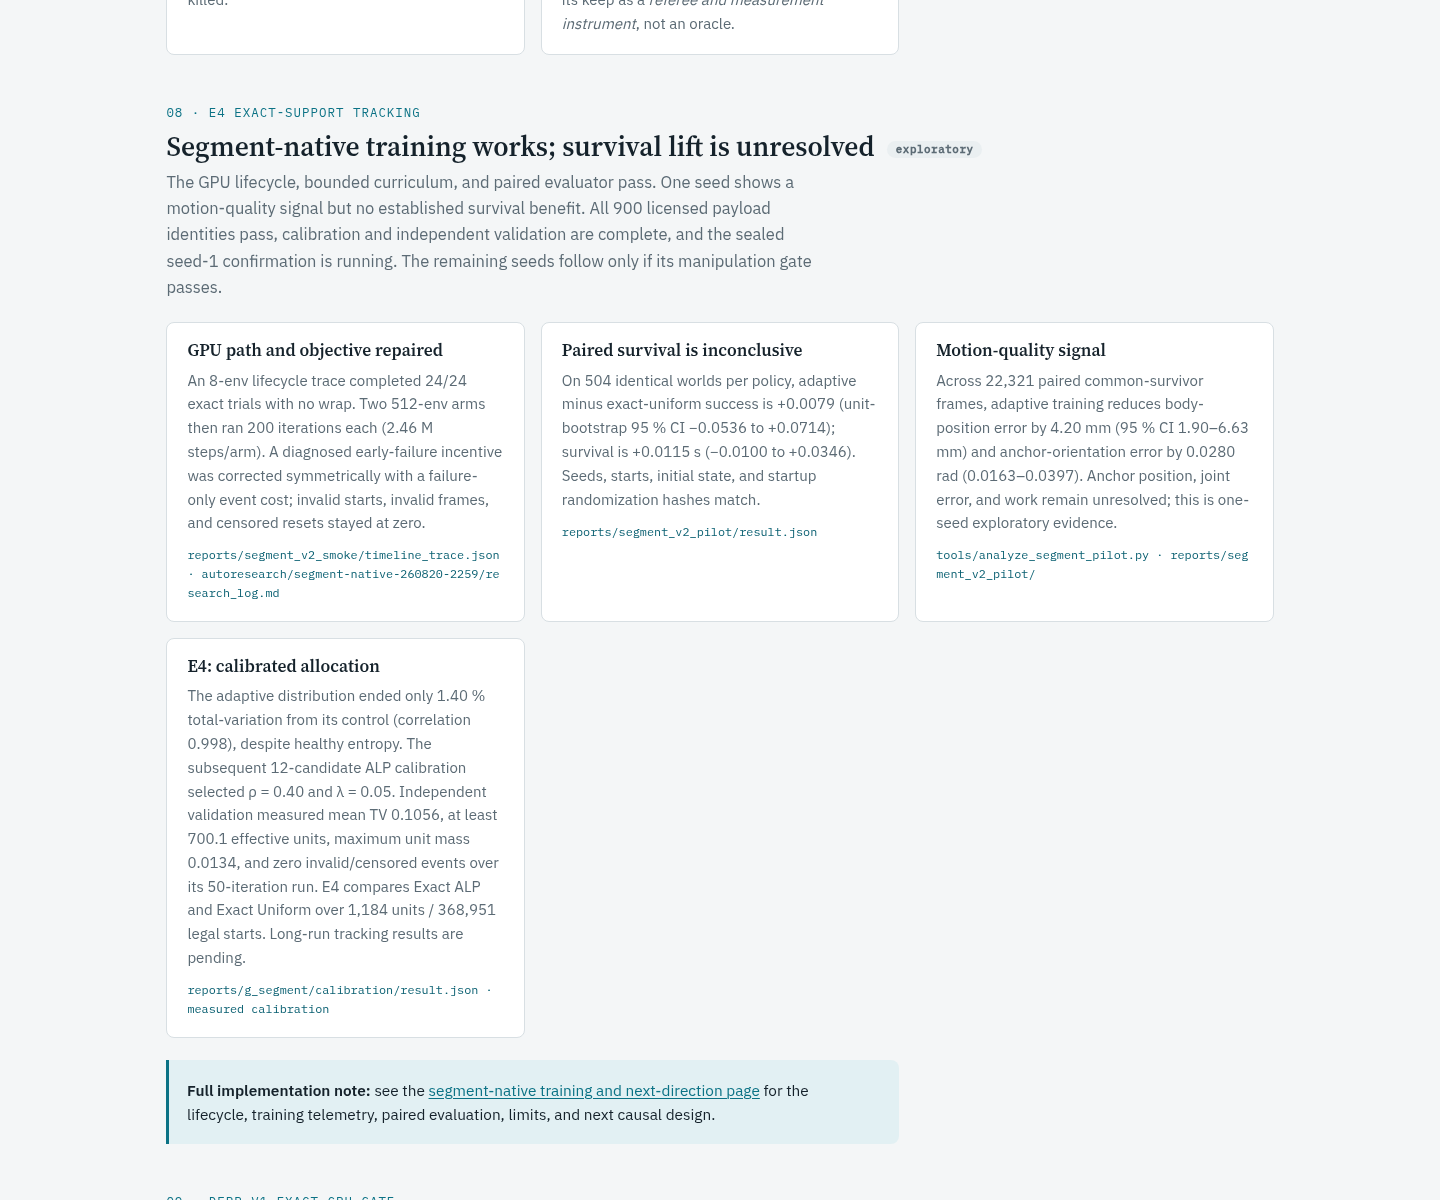
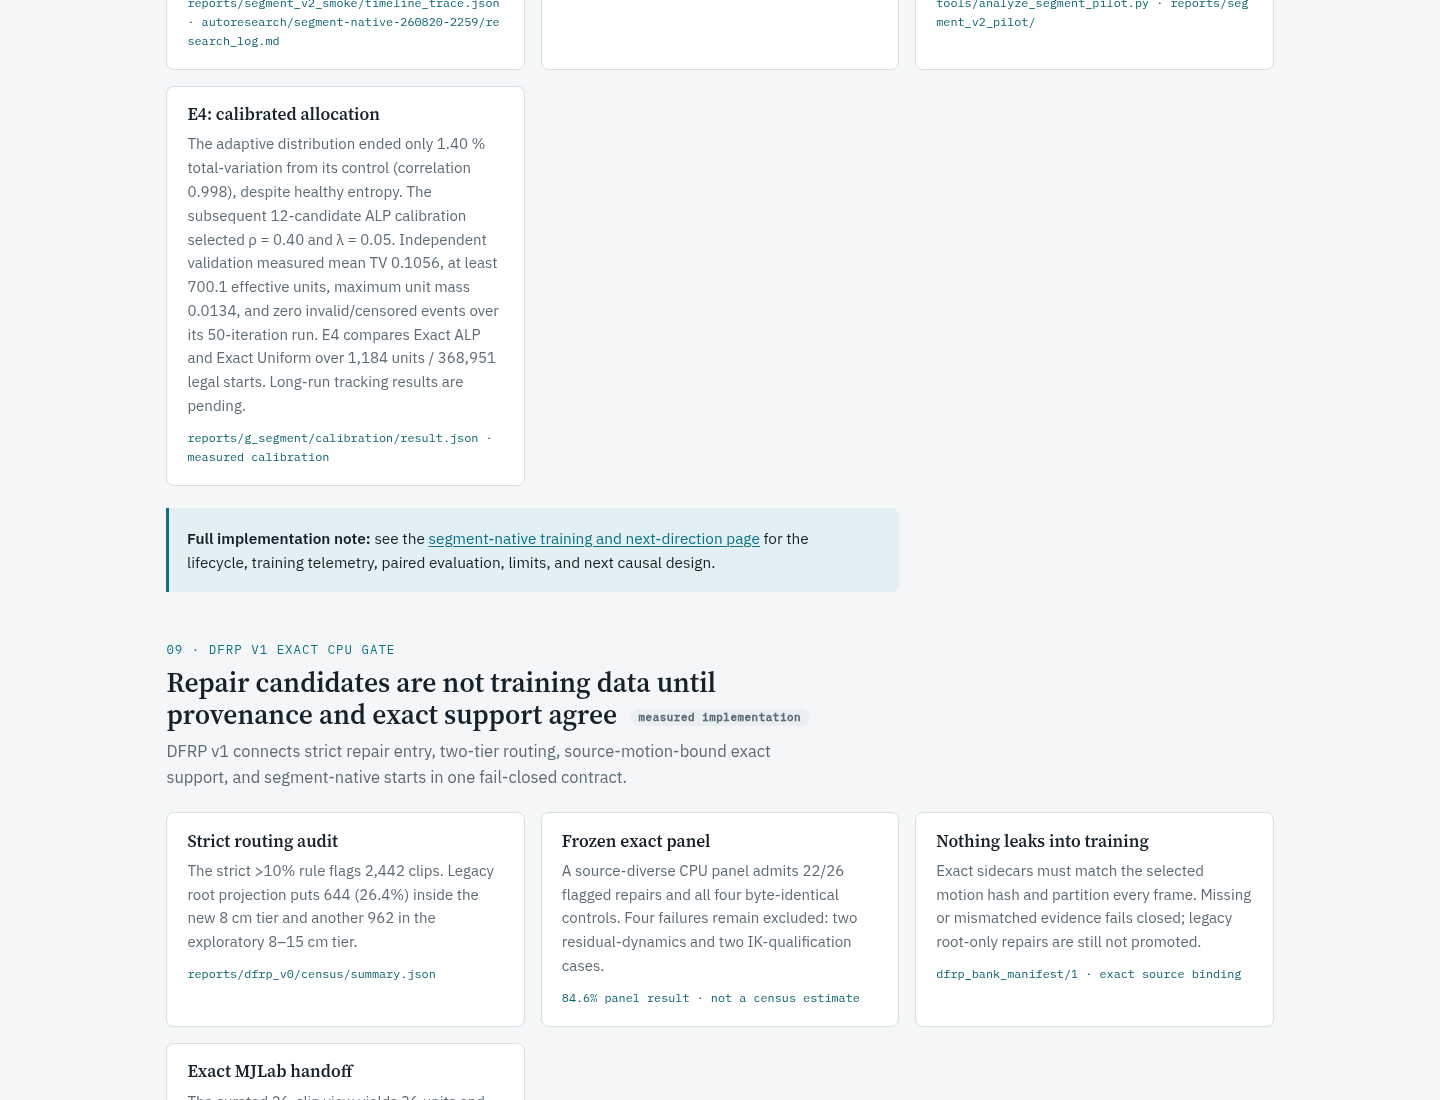
Report seed-1 progress and automate complete-panel DFRP figures

diff --git a/docs/index.html b/docs/index.html
@@ -446,10 +446,11 @@ footer .links{display:flex;flex-wrap:wrap;gap:1.4rem;margin-top:.6rem}
     <div class="card"><h3>E4 confirmation <span class="pill sealed">sealed · running</span></h3>
       <p>Exact ALP and Exact Uniform share the same feasible support, 512 environments, and 4,000 iterations.
       The three-seed protocol checks sampler manipulation before measuring TrackingScore, survival, and common-survivor fidelity.
-      Seed 1 is running; its frozen gate controls continuation to seeds 2–3.</p>
+      Exact Uniform seed 1 has completed training; Exact ALP seed 1 is running.
+      Their frozen sampler gate controls continuation to seeds 2–3.</p>
       <span class="ev">plan/G_SEGMENT_FREEZE.sha256 · plan/E4_CONTINUATION_2026-09-05.md</span></div>
   </div>
-  <div class="callout"><p><strong>E4 research status, 5 September 2026:</strong> all 900 reference identities pass, confirmation preflight has zero blockers, and the 41-file seal is committed before training. Independent calibration passes; contact timing remains exploratory. The next DFRP comparison will evaluate the fixed Exact Uniform checkpoint on raw and repaired references, including all four unchanged controls. The execution plan and claim boundaries are recorded in
+  <div class="callout"><p><strong>E4 research status, 5 September 2026:</strong> all 900 reference identities pass, confirmation preflight has zero blockers, and the 41-file seal is committed before training. Independent calibration passes; contact timing remains exploratory. A separate DFRP comparison is queued: 22 qualified repairs plus four unchanged controls, 656 paired conditions per reference arm, and a fixed Exact Uniform checkpoint. Historical payload identity checks must pass before evaluation; no repaired-policy tracking gain is claimed yet. The execution plan and claim boundaries are recorded in
     <a href="https://github.com/linjiw/climb-feasibility-first/blob/master/plan/E4_CONTINUATION_2026-09-05.md">the E4 and DFRP continuation record</a>; manuscript milestones remain in
     <a href="https://github.com/linjiw/climb-feasibility-first/blob/master/plan/PAPER_COMPLETION_2026-09-04.md">the paper-completion checkpoint</a>.</p></div>
 </section>

diff --git a/paper/figures/f_dfrp_tracking.py b/paper/figures/f_dfrp_tracking.py
@@ -1,0 +1,120 @@
+#!/usr/bin/env python3
+"""Render every DFRP validation clip, without selecting successful examples."""
+
+from __future__ import annotations
+
+import argparse
+import csv
+import hashlib
+import json
+from pathlib import Path
+
+import matplotlib
+
+matplotlib.use("Agg")
+import matplotlib.pyplot as plt
+import numpy as np
+
+plt.rcParams.update({"pdf.fonttype": 42, "ps.fonttype": 42})
+
+
+def render(result: dict, design: dict, out: Path, *, synthetic: bool = False) -> None:
+    """Plot paired window-completion rates and common-reference TrackingScore."""
+    records = sorted(design["clips"], key=lambda row: row["clip"])
+    names = [row["clip"] for row in records]
+    if set(names) != set(result["per_clip"]):
+        raise ValueError("figure must contain every design clip exactly once")
+    if len(names) != len(set(names)):
+        raise ValueError("duplicate design clip")
+    if not synthetic and result.get("status") != "measured":
+        raise ValueError("figure requires measured validated results")
+    fig, axes = plt.subplots(1, 2, figsize=(9.6, max(4.0, len(names) * 0.27 + 2.0)),
+                             sharey=True, layout="constrained")
+    y = np.arange(len(names))
+    for axis, key, title in zip(
+        axes, ("success", "tracking_score"),
+        ("Window completion rate", "Common-raw-reference TrackingScore"),
+    ):
+        for i, row in enumerate(records):
+            metrics = result["per_clip"][row["clip"]]["metrics"][key]
+            raw, repaired = metrics["raw"], metrics["repaired"]
+            axis.plot([raw, repaired], [i, i], color="#8c969c", linewidth=1.5)
+            axis.scatter(raw, i, marker="o", s=28, color="#596875",
+                         label="Raw reference" if i == 0 else None, zorder=3)
+            axis.scatter(repaired, i, marker="D", s=28, color="#0b8296",
+                         label="DFRP / unchanged control" if i == 0 else None, zorder=3)
+        axis.set_xlim(-0.035, 1.035)
+        axis.set_title(title, fontsize=11)
+        axis.grid(axis="x", alpha=0.2)
+        axis.set_axisbelow(True)
+        axis.spines[["top", "right"]].set_visible(False)
+    axes[0].set_yticks(y, [
+        f"{i + 1:02d}  {'repair' if r['qualified_repair'] else 'control'}"
+        f"{' *' if r['training_overlap'] else ''}"
+        for i, r in enumerate(records)
+    ], fontsize=8)
+    axes[0].invert_yaxis()
+    axes[1].legend(loc="lower right", fontsize=8)
+    prefix = "SYNTHETIC CHECK — " if synthetic else "Exploratory, one fixed policy — "
+    fig.suptitle(prefix + "raw vs. DFRP references", fontsize=12)
+    fig.supxlabel("All sampled windows, including failures; horizons ≤3 s.  "
+                  "* overlaps training. Clip identities: companion CSV.", fontsize=9)
+    out.parent.mkdir(parents=True, exist_ok=True)
+    for suffix in (".png", ".pdf", ".csv"):
+        target = out.with_suffix(suffix)
+        if target.exists():
+            raise ValueError(f"refusing figure overwrite: {target}")
+    fig.savefig(out.with_suffix(".png"), dpi=170)
+    fig.savefig(out.with_suffix(".pdf"))
+    plt.close(fig)
+    with out.with_suffix(".csv").open("x", newline="") as handle:
+        fields = ("row", "clip", "qualified_repair", "training_overlap", "conditions",
+                  "raw_completion", "repaired_completion", "raw_score", "repaired_score")
+        writer = csv.DictWriter(handle, fieldnames=fields)
+        writer.writeheader()
+        for i, row in enumerate(records):
+            summary = result["per_clip"][row["clip"]]
+            metrics = summary["metrics"]
+            writer.writerow({
+                "row": i + 1, "clip": row["clip"],
+                "qualified_repair": row["qualified_repair"],
+                "training_overlap": row["training_overlap"],
+                "conditions": summary["conditions"],
+                "raw_completion": metrics["success"]["raw"],
+                "repaired_completion": metrics["success"]["repaired"],
+                "raw_score": metrics["tracking_score"]["raw"],
+                "repaired_score": metrics["tracking_score"]["repaired"],
+            })
+
+
+def main() -> None:
+    parser = argparse.ArgumentParser(description=__doc__)
+    parser.add_argument("--result", type=Path)
+    parser.add_argument("--design", type=Path)
+    parser.add_argument("--out", type=Path, required=True)
+    parser.add_argument("--synthetic", action="store_true")
+    args = parser.parse_args()
+    if args.synthetic:
+        design = {"clips": [
+            {"clip": f"synthetic_{i:02}", "qualified_repair": i < 22,
+             "training_overlap": i in (0, 22)} for i in range(26)
+        ]}
+        result = {"status": "synthetic", "per_clip": {
+            row["clip"]: {"conditions": 28, "metrics": {
+                key: {"raw": (i % 8) / 8,
+                      "repaired": min(1.0, max(0.0, (i % 8) / 8 + (i % 3 - 1) * 0.15))}
+                for key in ("success", "tracking_score")}}
+            for i, row in enumerate(design["clips"])
+        }}
+    else:
+        if args.result is None or args.design is None:
+            parser.error("--result and --design required except with --synthetic")
+        result = json.loads(args.result.read_text())
+        design = json.loads(args.design.read_text())
+        if hashlib.sha256(args.design.read_bytes()).hexdigest() != result["design_sha256"]:
+            raise ValueError("result/design hash mismatch")
+    render(result, design, args.out, synthetic=args.synthetic)
+
+
+if __name__ == "__main__":
+    main()

diff --git a/tools/run_dfrp_policy_validation.py b/tools/run_dfrp_policy_validation.py
@@ -12,6 +12,7 @@ from __future__ import annotations
 import argparse
 import fcntl
 import json
+import subprocess
 import sys
 import time
 from pathlib import Path
@@ -126,6 +127,10 @@ def evaluate_cells(design_path: Path, checkpoint: Path, raw: Path, repaired: Pat
         ], OUT / f"{arm}.log", 1)
     result = analyze(design_path, OUT / "raw.csv", OUT / "repaired.csv")
     write_once(OUT / "result.json", result)
+    subprocess.run([
+        str(PYTHON), "paper/figures/f_dfrp_tracking.py", "--result", str(OUT / "result.json"),
+        "--design", str(design_path), "--out", str(OUT / "tracking_comparison"),
+    ], check=True)
 
 
 def main() -> int:

diff --git a/tests/test_dfrp_policy_validation.py b/tests/test_dfrp_policy_validation.py
@@ -152,6 +152,7 @@ def test_recovery_receipt_cannot_mask_missing_payload(monkeypatch, tmp_path):
 def test_same_checkpoint_and_raw_common_reference_in_both_cells(monkeypatch, cells, tmp_path):
     monkeypatch.setattr(runner, "OUT", tmp_path / "new")
     monkeypatch.setattr(runner, "analyze", lambda *a: {"status": "synthetic"})
+    monkeypatch.setattr(runner.subprocess, "run", lambda *a, **k: None)
     calls = []
     monkeypatch.setattr(runner, "gated", lambda command, *a: calls.append(command))
     checkpoint = tmp_path / "test_phase_g_g1_s1/model_3999.pt"

diff --git a/plan/STATUS.md b/plan/STATUS.md
@@ -6,14 +6,22 @@ discipline continues underneath. Seals manifest: `plan/SEALS_2026-08-19.sha256`.
 
 ## State as of 2026-08-21 (writing-side snapshot — what a reader needs to know first)
 
-**2026-09-05 execution update:** G1 seed 1 launched at 02:01:35 local time through
-the shared-GPU gate; G2 seed 1 follows in the same sealed chain. Linji subsequently
+**2026-09-05 execution update:** G1 seed 1 completed 4,000 iterations at 02:33:27
+local time (`rc=0`, 1,912 s); G2 seed 1 launched immediately afterward through
+the shared-GPU gate in the same sealed chain. Linji subsequently
 authorized the full three-seed E4 comparison and the DFRP same-policy deployment
 test. `plan/E4_CONTINUATION_2026-09-05.md` records this extended approval; it
 supersedes the earlier execution-scope limit without editing any sealed file.
 `tools/run_e4_confirmation.py` composes the existing sealed entrypoints, checks
 the seed-1 result again, and permits seeds 2–3 only on a passed gate. E4 endpoints
-remain pending. DFRP payload recovery is required for the 26-clip paired test.
+remain pending. The continuation is running and waiting for the seed-1 decision.
+The DFRP worker is queued behind E4 with a pre-outcome design: 26 clips, 656
+conditions per reference arm, and the fixed G1 seed-1 final checkpoint. All 26
+upstream arrays are recovered/hash-verified; CPU NPZ reconstruction was rejected
+(0/26 historical identities matched), and exact CUDA recovery is required before
+evaluation. See `reports/dfrp_policy_validation_2026-09-05/README.md`. The paired
+analyzer and complete-panel figure preserve failures and label their one-policy,
+windowed scope; 18 focused tests pass. All 41 E4 sealed artifacts are unchanged.
 
 | item | state | where |
 |---|---|---|

diff --git a/reports/dfrp_policy_validation_2026-09-05/README.md b/reports/dfrp_policy_validation_2026-09-05/README.md
@@ -29,6 +29,11 @@ missing trials, reference/checkpoint/software/randomization mismatch, retained
 failures, explicit survivor denominators, equal clip weighting, missing payload
 rejection, and refusal to launch while E4 is active. Preparation starts no simulator.
 
+`paper/figures/f_dfrp_tracking.py --synthetic --out /tmp/climb-dfrp-figure-synthetic`
+also passes and was visually inspected. The synthetic image is not a research
+result and is not published. After validated measurement, the worker renders all
+26 clips with a complete clip-key CSV, including regressions and unchanged controls.
+
 Launch command (one instance only; waits for E4):
 
 ```bash
